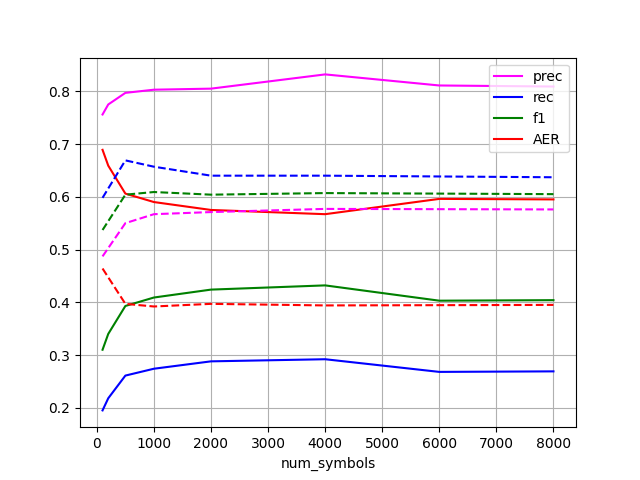
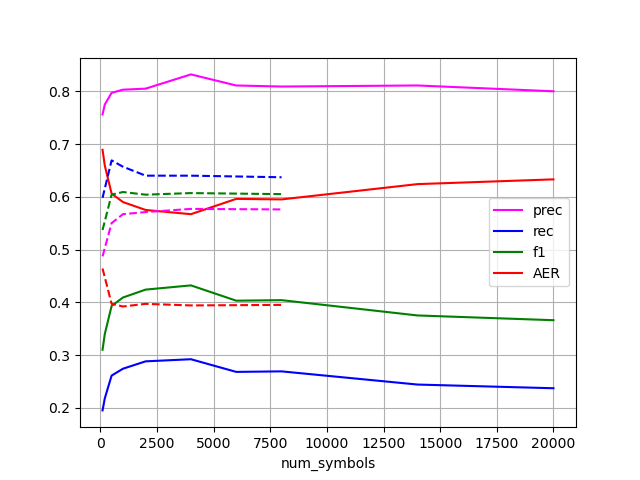
scores: dropout=0.5, 14k and 20k symbols
samples for 14k and 20k segmentations

diff --git a/settings.py b/settings.py
@@ -8,10 +8,10 @@ source, target = 'eng', 'deu' #eng, deu
 source_bpe, target_bpe = False, False # both can't be true at the same time
 
 space = False
-dropout = 0.5
-dropout_repetitions = 10
+dropout = 0.1
+dropout_repetitions = 19
 num_all_symbols = 20000
-all_symbols = [14000, 20000]#[100, 200, 500, 1000, 2000, 4000, 6000, 8000]
+all_symbols = [100, 200, 500, 1000, 2000, 4000, 6000, 8000]
 merge_threshold = [0.3, 0.5, 0.7, 0.9] # if alignments are present in >X% of files, they're accepted
 #avgs = [3, 5, 7, 10] # average dropout scores, avg of 3, 5, ...
 

diff --git a/src/apply_bpe.py b/src/apply_bpe.py
@@ -75,7 +75,7 @@ if __name__ == "__main__":
 
     if dropout > 0:
         # create `dropout_repetitions` segmentations, to aggregate later
-        for i in range(4, 5):#dropout_repetitions):
+        for i in range(dropout_repetitions):
             print(f"Iteration {i+1}")
             apply_bpe(i)
     else:

diff --git a/README.md b/README.md
@@ -7,9 +7,8 @@ Master thesis repo
 * [ ] BPE algo is very slow, everyone uses [fastBPE](https://github.com/glample/fastBPE)
 * [ ] check SentencePiece
 * [ ] pipeline: if we discard `we _`, then all possibilities of `we_ X` won't be considered. Huge loss of merges
-* [ ] pipeline: run again, higher dropout. 10k symbols? in ns mode. learn 20k symbols? Add 14k and 20k to dropout=0.5 results
+* [X] pipeline: run again, higher dropout. 10k symbols? in ns mode. learn 20k symbols? Add 14k and 20k to dropout=0.5 results
 * [ ] extract_alignments: maybe do fast align in one big file?
-* [ ] merge_dropout: only plot num_symbols in alignments
 * [ ] learn_bpe: substitute number for digit when merging?
 * [ ] dropout only on one side? source_bpe -> source_dropout?
 
